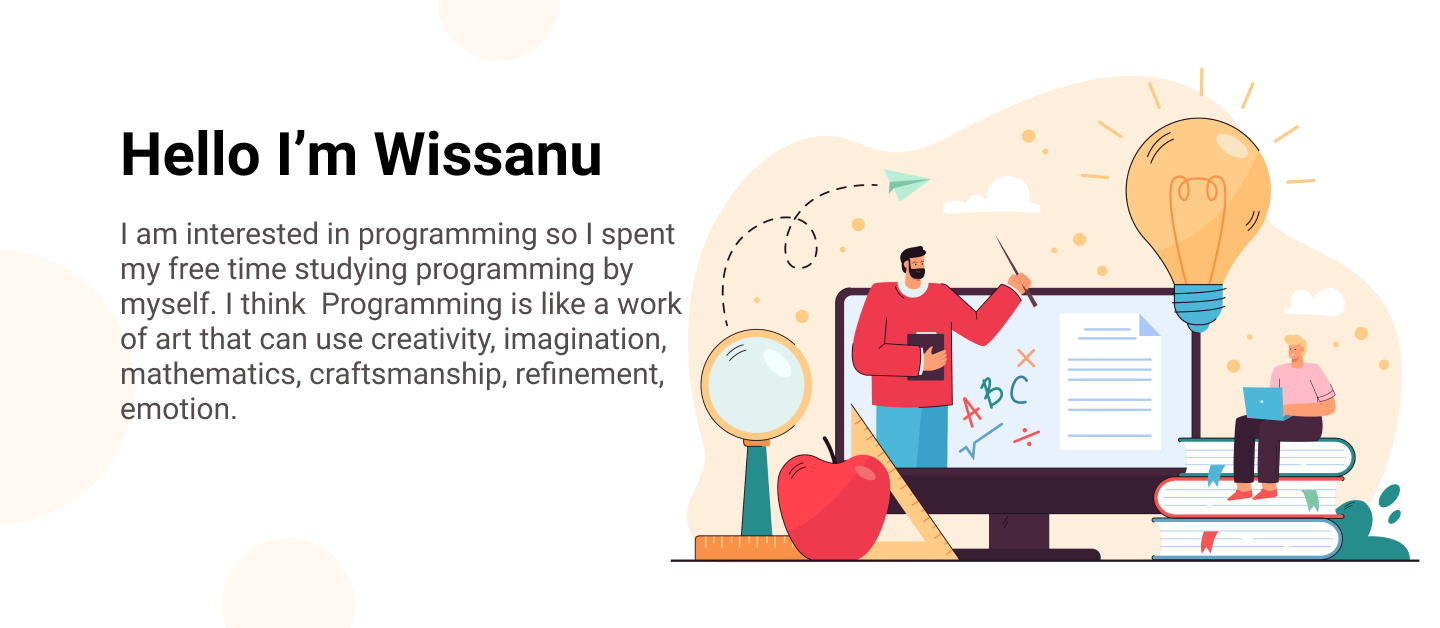
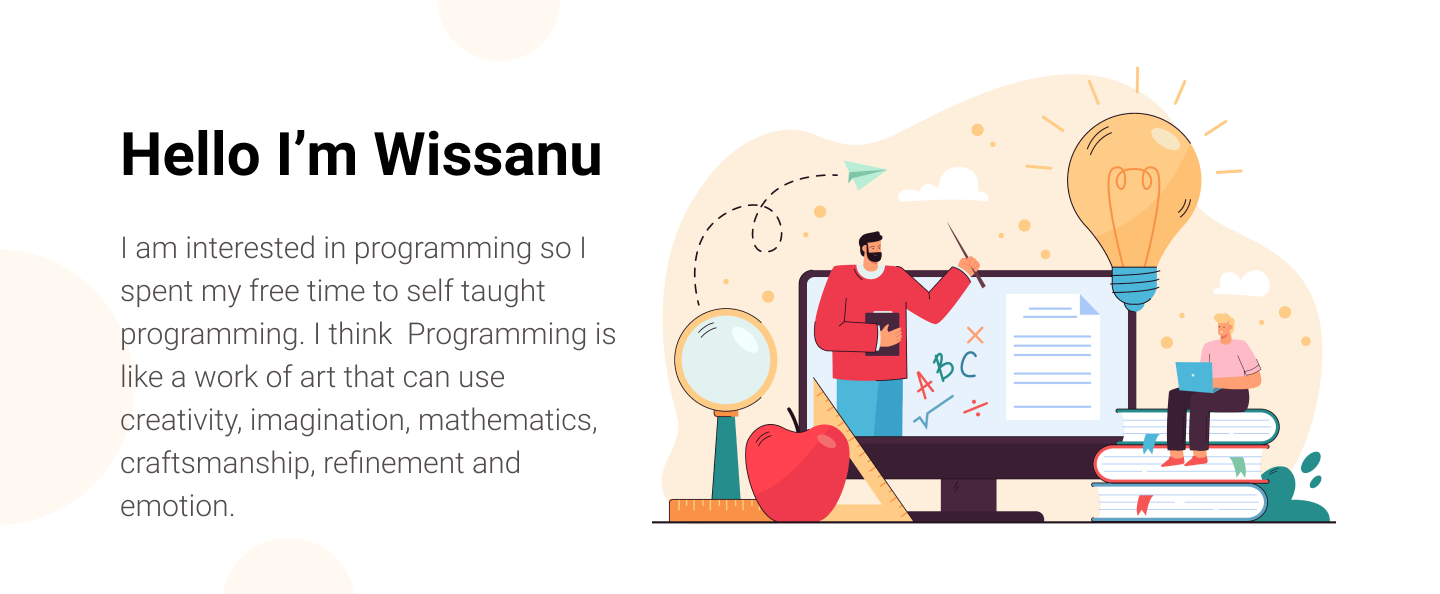
update picture on my github

diff --git a/README.md b/README.md
@@ -1,13 +1,8 @@
-# 👏 Hi there
-
 <img style=" width:1127px; height:344px" src="https://github.com/Wissanukhong/Wissanukhong/blob/master/Picture/banner.png" alt="profile">
 
 ## 📃 About me
 
-🏆 Programming is like a work of art that can use creativity, imagination, mathematics, craftsmanship, refinement, emotion. The beauty of the code and its algorithm Seamlessly integrated with technology
-
-<!-- 🌈 การเขียนโปรแกรมเปรียบเหมือนงานศิลปะที่สามารถใช้ความคิดสร้างสรรค์ จินตนาการ คณิตศาสตร์ งานฝีมือ ความประณีต อารมณ์ความรู้สึก ความสวยงามของโค้ดและอัลกอริทึม หลอมรวมเข้ากับเทคโนโลยีได้อย่างลงตัว -->
-
+🏆 Programming is like a work of art that can use creativity, imagination, mathematics, craftsmanship, refinement, emotion. The beauty of the code and its algorithm Seamlessly integrated with technology  
 📚 I’m currently learning Front-End, Back-End  
 🏢 I’m currently working on Project Manager  
 🎯 I really want to be successful with Full stack web developer
